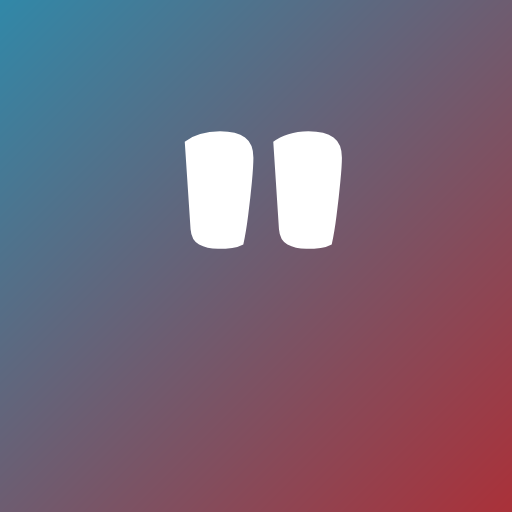
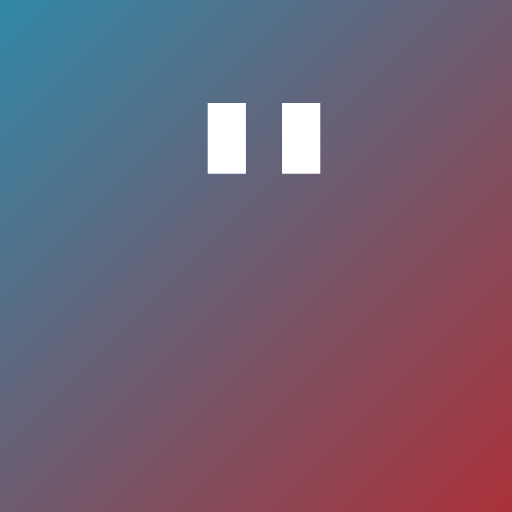
chore: keep the brand-asset generator private and restyle the wordmark
Moves the icon/logo generation script out of the public repo into
.private/ (gitignored) so the exact generation process isn't published
alongside the "don't reuse our branding" terms, and drops the now-stale
reference to it from ADDITIONAL_TERMS.md. Regenerates icon.png and
logo.png with a different font.

Changed region(s): [[0.3438, 0.1875, 0.5, 0.5], [0.5312, 0.1875, 0.6875, 0.5]]

diff --git a/ADDITIONAL_TERMS.md b/ADDITIONAL_TERMS.md
@@ -30,7 +30,7 @@ Nothing in the AGPL-3.0 or these additional terms grants you any right to use th
 
 ## 4. Brand Assets (`.github/assets/`)
 
-The image files under [`.github/assets/`](./.github/assets/) (including the project icon and logo) identify the "Open MiQ" project and its author and are excluded from the AGPL-3.0 license grant. You may use them, unmodified, to refer to this project or a permitted unmodified copy of it (e.g., in a README, an "about" page, or a bot's avatar for an unmodified deployment). You may not repurpose, copy, or adapt these files, in original or modified form, as branding — an icon, logo, avatar, or similar mark — for any other product or service, including a modified version of this software distributed under a different name per Section 2 above. This restriction applies equally to images produced by running [`scripts/generate-branding.ts`](./scripts/generate-branding.ts) unmodified — regenerating the same icon or logo from that script, rather than copying the files directly, does not make them available for other branding.
+The image files under [`.github/assets/`](./.github/assets/) (including the project icon and logo) identify the "Open MiQ" project and its author and are excluded from the AGPL-3.0 license grant. You may use them, unmodified, to refer to this project or a permitted unmodified copy of it (e.g., in a README, an "about" page, or a bot's avatar for an unmodified deployment). You may not repurpose, copy, or adapt these files, in original or modified form, as branding — an icon, logo, avatar, or similar mark — for any other product or service, including a modified version of this software distributed under a different name per Section 2 above.
 
 ## 5. Removal
 
